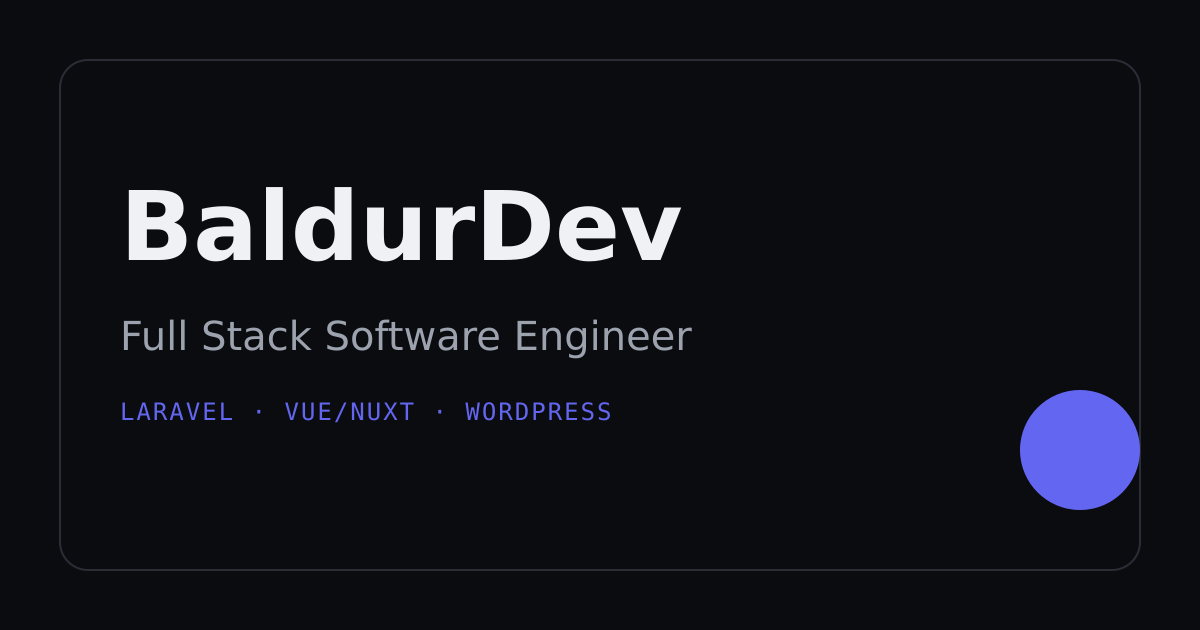
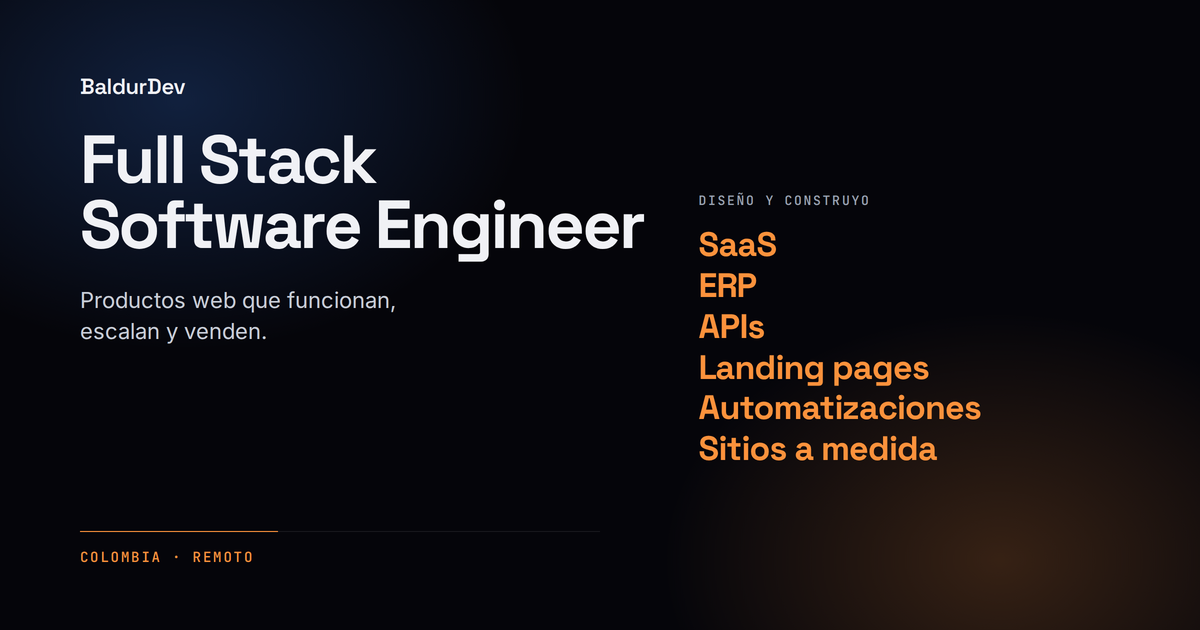
Update theme color and enhance Open Graph and Twitter metadata: changed theme and background colors to #05050a, added image dimensions and alt text for Open Graph and Twitter cards, and improved the design of the Open Graph image for better branding and visual appeal.

diff --git a/scripts/og-image.html b/scripts/og-image.html
@@ -1,0 +1,186 @@
+<!doctype html>
+<html lang="es">
+  <head>
+    <meta charset="utf-8" />
+    <title>BaldurDev OG</title>
+    <link rel="preconnect" href="https://fonts.googleapis.com" />
+    <link rel="preconnect" href="https://fonts.gstatic.com" crossorigin />
+    <link
+      href="https://fonts.googleapis.com/css2?family=Space+Grotesk:wght@500;600;700&family=Inter:wght@400;500;600&family=JetBrains+Mono:wght@500&display=swap"
+      rel="stylesheet"
+    />
+    <style>
+      * {
+        box-sizing: border-box;
+        margin: 0;
+        padding: 0;
+      }
+
+      html,
+      body {
+        width: 1200px;
+        height: 630px;
+        overflow: hidden;
+        background: #05050a;
+        color: #f0f1f5;
+        -webkit-font-smoothing: antialiased;
+      }
+
+      .card {
+        position: relative;
+        width: 1200px;
+        height: 630px;
+        background: #05050a;
+        isolation: isolate;
+      }
+
+      .blob-primary {
+        position: absolute;
+        width: 720px;
+        height: 520px;
+        left: -180px;
+        top: -160px;
+        background: radial-gradient(
+          ellipse at center,
+          rgba(59, 130, 246, 0.22) 0%,
+          transparent 68%
+        );
+        pointer-events: none;
+      }
+
+      .blob-accent {
+        position: absolute;
+        width: 680px;
+        height: 500px;
+        right: -140px;
+        bottom: -180px;
+        background: radial-gradient(ellipse at center, rgba(251, 146, 60, 0.2) 0%, transparent 70%);
+        pointer-events: none;
+      }
+
+      .inner {
+        position: relative;
+        z-index: 1;
+        display: grid;
+        grid-template-columns: 1.15fr 0.85fr;
+        gap: 48px;
+        height: 100%;
+        padding: 72px 80px 64px;
+      }
+
+      .brand {
+        font-family: 'Space Grotesk', sans-serif;
+        font-size: 22px;
+        font-weight: 600;
+        letter-spacing: -0.03em;
+        color: #f0f1f5;
+      }
+
+      .title {
+        margin-top: 28px;
+        font-family: 'Space Grotesk', sans-serif;
+        font-size: 68px;
+        font-weight: 700;
+        line-height: 0.95;
+        letter-spacing: -0.035em;
+      }
+
+      .tagline {
+        margin-top: 28px;
+        max-width: 28ch;
+        font-family: Inter, sans-serif;
+        font-size: 22px;
+        font-weight: 400;
+        line-height: 1.4;
+        color: #c9ced8;
+      }
+
+      .meta {
+        position: absolute;
+        left: 80px;
+        bottom: 64px;
+        display: flex;
+        flex-direction: column;
+        gap: 16px;
+        width: 520px;
+      }
+
+      .rule {
+        position: relative;
+        height: 1px;
+        width: 100%;
+        background: rgba(255, 255, 255, 0.08);
+      }
+
+      .rule span {
+        position: absolute;
+        inset: 0 auto 0 0;
+        width: 38%;
+        background: #fb923c;
+      }
+
+      .location {
+        font-family: 'JetBrains Mono', monospace;
+        font-size: 14px;
+        font-weight: 500;
+        letter-spacing: 0.16em;
+        text-transform: uppercase;
+        color: #fb923c;
+      }
+
+      .right {
+        display: flex;
+        flex-direction: column;
+        justify-content: center;
+        padding-top: 24px;
+      }
+
+      .lead {
+        font-family: 'JetBrains Mono', monospace;
+        font-size: 13px;
+        font-weight: 500;
+        letter-spacing: 0.12em;
+        text-transform: uppercase;
+        color: #9aa3b2;
+      }
+
+      .tokens {
+        margin-top: 16px;
+        font-family: 'Space Grotesk', sans-serif;
+        font-size: 34px;
+        font-weight: 700;
+        line-height: 1.2;
+        letter-spacing: -0.03em;
+        color: #fb923c;
+      }
+    </style>
+  </head>
+  <body>
+    <div class="card">
+      <div class="blob-primary"></div>
+      <div class="blob-accent"></div>
+      <div class="inner">
+        <div>
+          <p class="brand">BaldurDev</p>
+          <h1 class="title">Full Stack<br />Software Engineer</h1>
+          <p class="tagline">Productos web que funcionan, escalan y venden.</p>
+        </div>
+        <div class="right">
+          <p class="lead">Diseño y construyo</p>
+          <p class="tokens">
+            SaaS<br />
+            ERP<br />
+            APIs<br />
+            Landing pages<br />
+            Automatizaciones<br />
+            Sitios a medida
+          </p>
+        </div>
+      </div>
+      <div class="meta">
+        <div class="rule" aria-hidden="true"><span></span></div>
+        <p class="location">Colombia · Remoto</p>
+      </div>
+    </div>
+  </body>
+</html>

diff --git a/app/app.vue b/app/app.vue
@@ -235,7 +235,7 @@
       ],
       meta: [
         { name: 'viewport', content: 'width=device-width, initial-scale=1' },
-        { name: 'theme-color', content: '#0B0C0F' },
+        { name: 'theme-color', content: '#05050a' },
         {
           name: 'robots',
           content: 'index, follow, max-image-preview:large, max-snippet:-1, max-video-preview:-1'
@@ -270,11 +270,18 @@
     ogSiteName: () => portfolioStructure.bio.brandName ?? 'BaldurDev',
     ogUrl: () => canonicalPageUrl.value,
     ogImage: () => ogImageUrl.value,
+    ogImageWidth: 1200,
+    ogImageHeight: 630,
+    ogImageType: 'image/png',
+    ogImageAlt: () =>
+      `${portfolioStructure.bio.brandName ?? 'BaldurDev'} — ${portfolioData.value.bio.title}`,
     ogLocale: () => (locale.value === 'en' ? 'en_US' : 'es_CO'),
     twitterCard: 'summary_large_image',
     twitterTitle: () => seoPageTitle(),
     twitterDescription: () => seoPageDescription(),
-    twitterImage: () => ogImageUrl.value
+    twitterImage: () => ogImageUrl.value,
+    twitterImageAlt: () =>
+      `${portfolioStructure.bio.brandName ?? 'BaldurDev'} — ${portfolioData.value.bio.title}`
   })
 </script>
 
